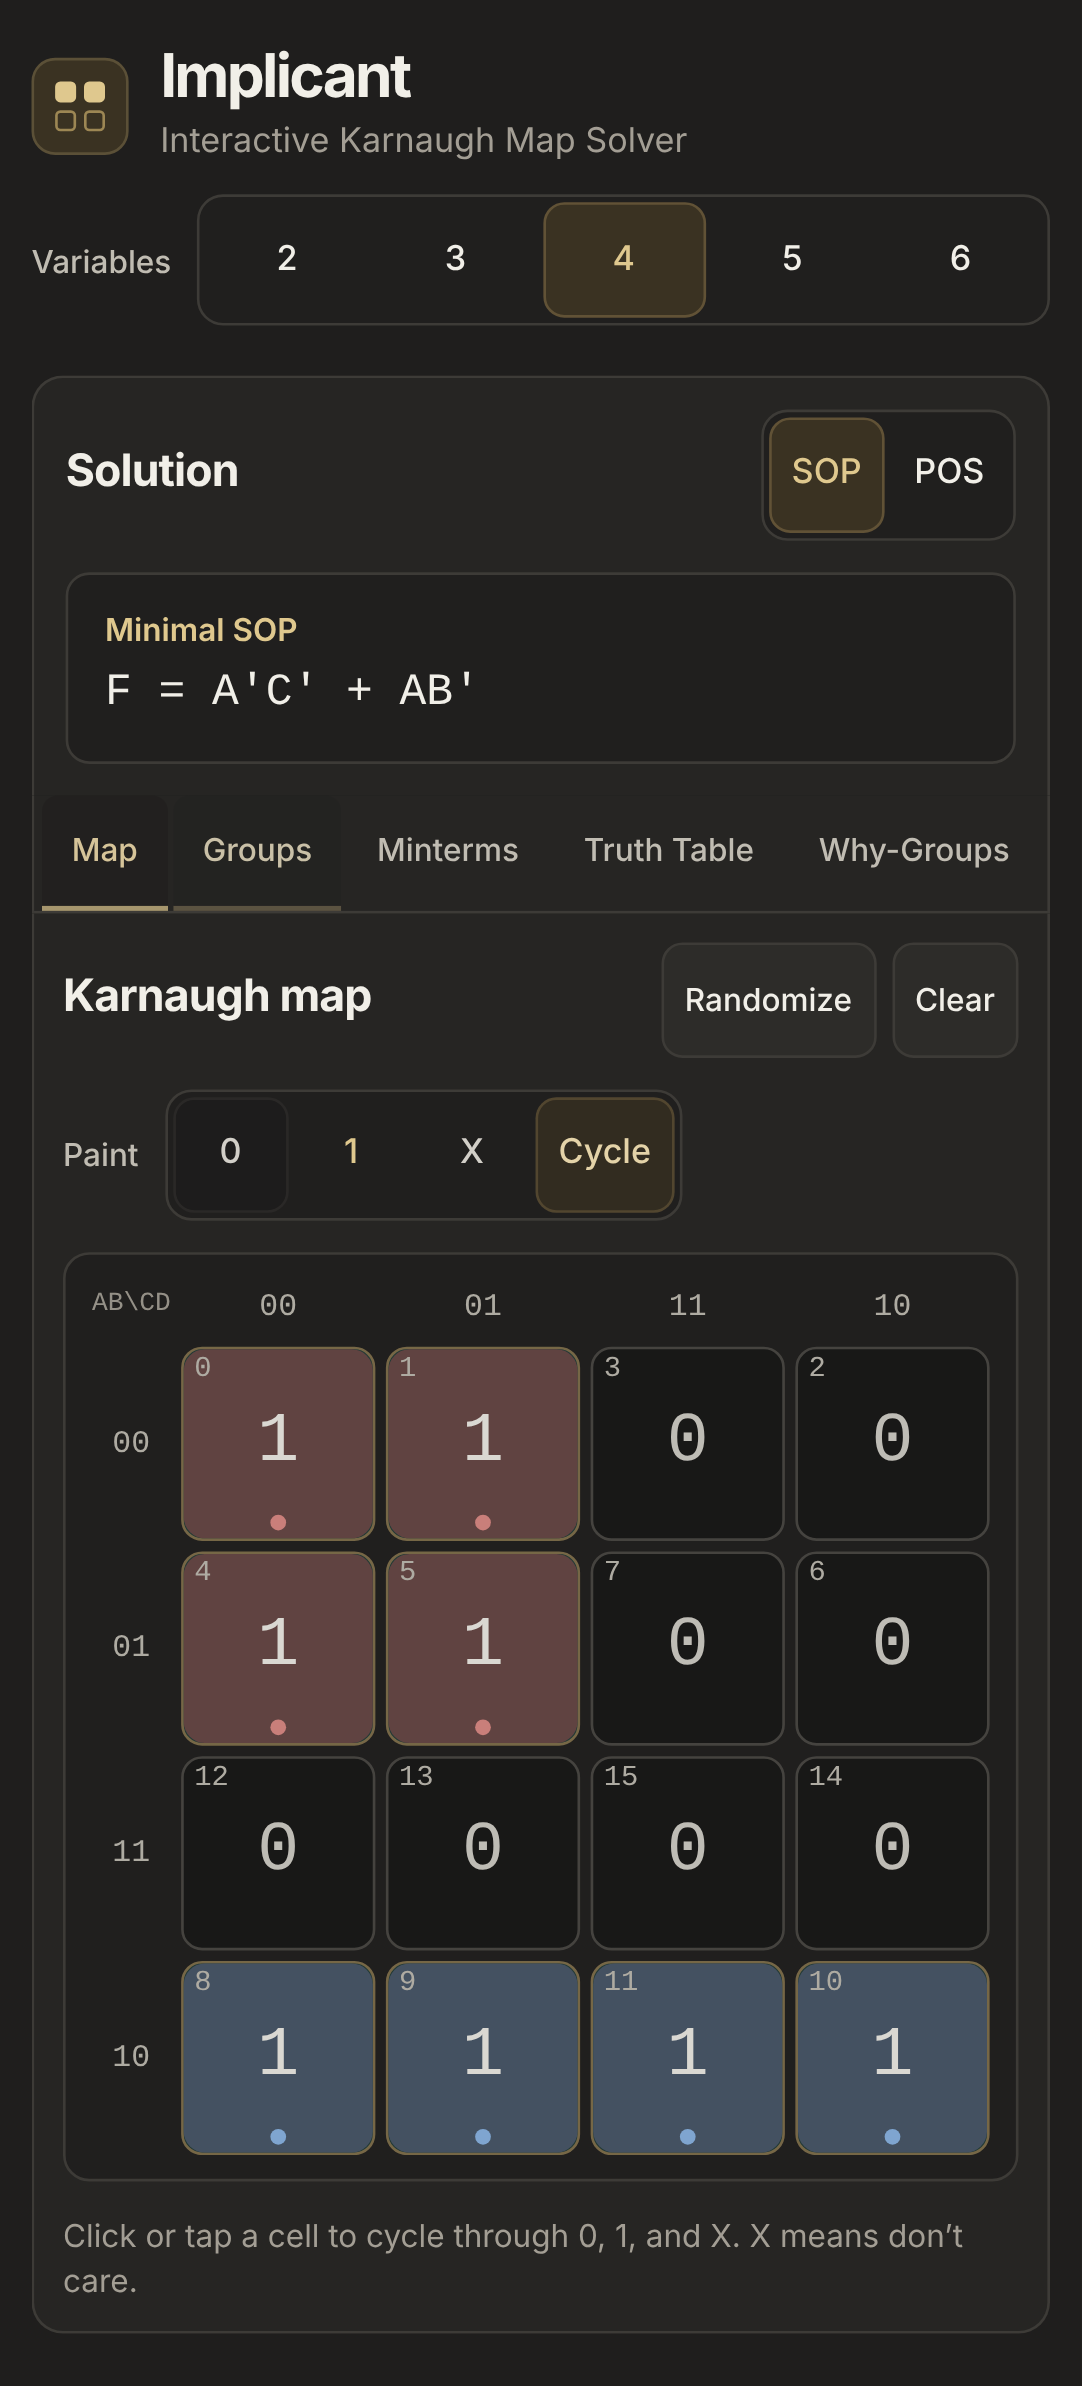
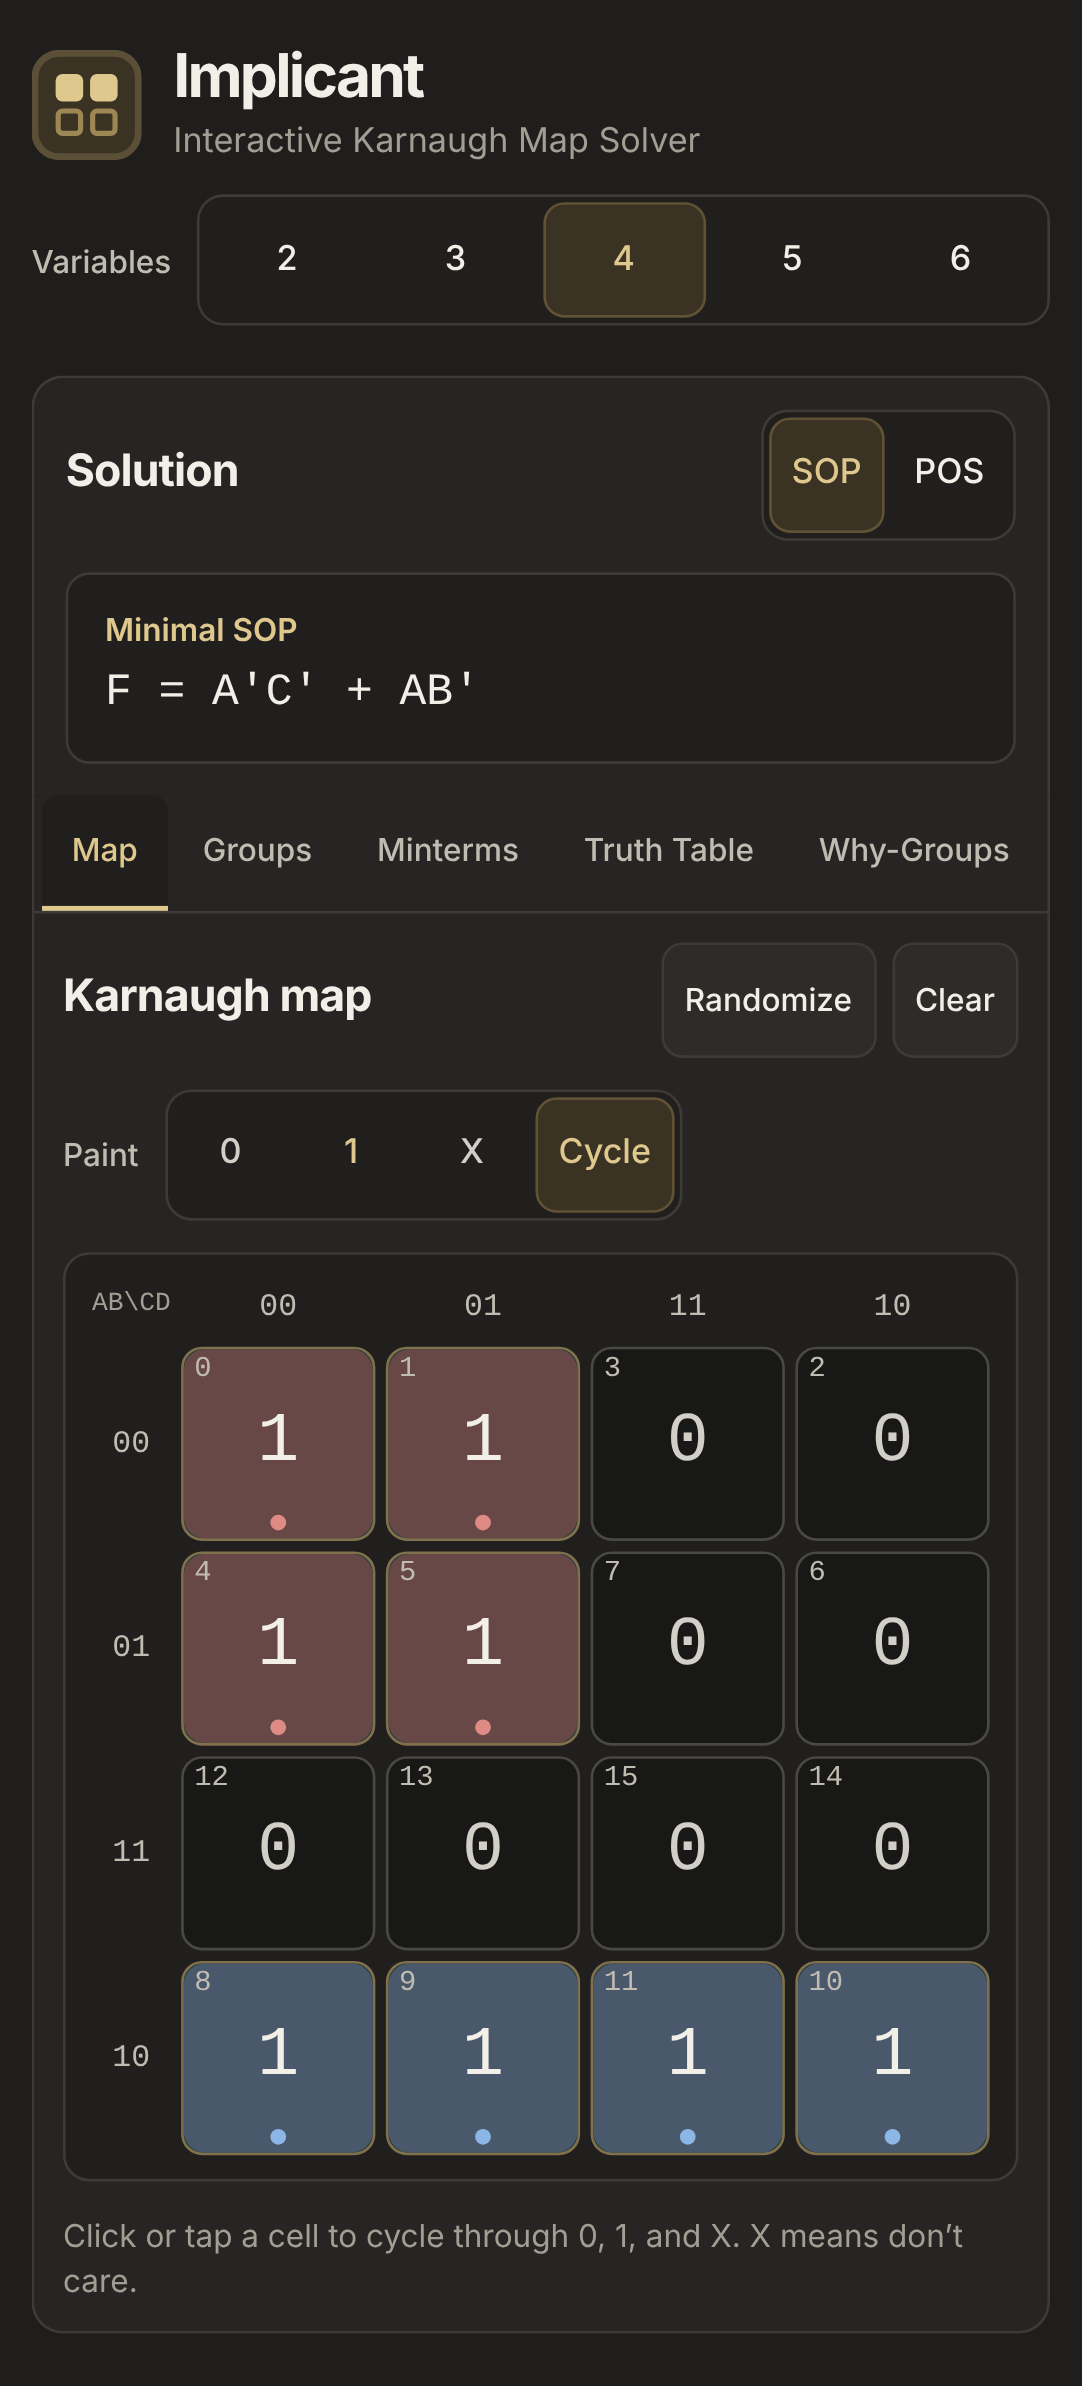
Align the Implicant brand and default to Cycle

Changed region(s): [[0.0305, 0.0, 0.6405, 0.093]]

diff --git a/index.html b/index.html
@@ -6,14 +6,14 @@
     <meta name="theme-color" content="#1f1e1d">
     <title>Implicant | Interactive Karnaugh Map Solver</title>
     <link rel="icon" href="./favicon.svg" type="image/svg+xml">
-    <link rel="stylesheet" href="./styles.css?v=9">
-    <script type="module" src="./ui.js?v=9"></script>
+    <link rel="stylesheet" href="./styles.css?v=10">
+    <script type="module" src="./ui.js?v=10"></script>
   </head>
   <body>
     <main class="app">
       <header class="topbar">
         <div class="brand">
-          <span class="brand-mark" aria-hidden="true"><i></i><i></i><i></i><i></i></span>
+          <img class="brand-mark" src="./favicon.svg" alt="" width="48" height="48">
           <div><h1>Implicant</h1><p class="subtitle">Interactive Karnaugh Map Solver</p></div>
         </div>
         <fieldset class="segmented variable-control">
@@ -36,10 +36,10 @@
             <fieldset class="segmented paint-control">
               <legend>Paint</legend>
               <div class="segment-row">
-                <button type="button" data-paint="0" aria-label="Paint zero" aria-pressed="true">0</button>
+                <button type="button" data-paint="0" aria-label="Paint zero" aria-pressed="false">0</button>
                 <button type="button" data-paint="1" aria-label="Paint one" aria-pressed="false">1</button>
                 <button type="button" data-paint="2" aria-label="Paint don't care" aria-pressed="false">X</button>
-                <button id="cycle-mode" type="button" aria-pressed="false">Cycle</button>
+                <button id="cycle-mode" type="button" aria-pressed="true">Cycle</button>
               </div>
             </fieldset>
           </div>

diff --git a/tests/browser/workspace.spec.js b/tests/browser/workspace.spec.js
@@ -33,11 +33,11 @@ test('map and truth table edit the same output and restore it from the URL', asy
   await expect(page.getByRole('button', { name: 'POS', exact: true })).toHaveAttribute('aria-pressed', 'true');
 });
 
-test('Cycle advances once per activation and selecting a value exits Cycle', async ({ page, isMobile }) => {
+test('Cycle is the default and advances once per activation', async ({ page, isMobile }) => {
   await page.goto('/');
   const cycle = page.getByRole('button', { name: 'Cycle', exact: true });
-  if (!isMobile) await cycle.click();
   await expect(cycle).toHaveAttribute('aria-pressed', 'true');
+  await expect(page.locator('.paint-control button[aria-pressed="true"]')).toHaveCount(1);
 
   const cell = mapCell(page, 2);
   for (const value of ['1', '2', '0']) {

diff --git a/styles.css b/styles.css
@@ -70,17 +70,11 @@ button:active { background-color: var(--control); }
 .topbar { justify-content: space-between; gap: 16px; }
 .brand { gap: 12px; }
 .brand-mark {
-  display: grid;
+  display: block;
   flex: 0 0 auto;
-  grid-template-columns: repeat(2, 8px);
-  gap: 3px;
-  padding: 8px;
-  border: 1px solid #5b5037;
-  border-radius: 9px;
-  background: var(--accent-bg);
+  width: clamp(42px, 4vw, 48px);
+  height: auto;
 }
-.brand-mark i { height: 8px; border: 1px solid #9d8754; border-radius: 2px; }
-.brand-mark i:nth-child(-n+2) { background: var(--accent); border-color: var(--accent); }
 h1 { font-size: clamp(23px, 2.25vw, 30px); font-weight: 650; letter-spacing: -.045em; line-height: 1.15; }
 .subtitle { margin-top: 3px; color: var(--muted); font-size: 13px; }
 

diff --git a/ui.js b/ui.js
@@ -5,6 +5,7 @@ let nVars = 4;
 let values = [...initialValues];
 let selectedGroup = -1;
 let selectedPaint = 0;
+let cycleMode = true;
 let paintingPointer = null;
 let pendingActivation = null;
 let form = 'SOP';
@@ -15,7 +16,6 @@ let mapCells = [];
 
 const narrowLayout = window.matchMedia('(max-width: 879px)');
 const reducedMotion = window.matchMedia('(prefers-reduced-motion: reduce)');
-let cycleMode = window.matchMedia('(any-pointer: coarse)').matches;
 const tintAnimations = new WeakMap();
 const stageColor = getComputedStyle(document.documentElement).getPropertyValue('--stage').trim();
 const viewButtons = document.querySelectorAll('[data-view]');

diff --git a/docs/GUIDE.md b/docs/GUIDE.md
@@ -14,7 +14,7 @@ Five variables add two layers. Six variables add four. Two cells in neighboring 
 | --- | --- |
 | **Variables** | Choose two through six variables. Changing the count starts a cleared map. |
 | **0**, **1**, **X** | Set the output to a fixed value. Click or tap a cell. With a mouse, drag to paint multiple cells. |
-| **Cycle** | Step through `0 → 1 → X → 0` with each click, tap, or keyboard activation. |
+| **Cycle** | The default editing mode. Step through `0 → 1 → X → 0` with each click, tap, or keyboard activation. |
 | **Randomize** / **Clear** | Fill each cell independently with an equally likely value, or set every cell to `0`. |
 | **Truth Table** | Select a value and click or tap an output in the `F out` column. The matching map cell updates. |
 

diff --git a/README.md b/README.md
@@ -1,6 +1,4 @@
-<h1 align="center"><img src="favicon.svg" alt="Implicant" width="96" height="96"></h1>
-
-<p align="center"><strong>Interactive Karnaugh Map Solver</strong></p>
+<h1 align="center"><img src="docs/implicant-logo.svg" alt="Implicant | Interactive Karnaugh Map Solver" width="510"></h1>
 
 <p align="center">
   <a href="https://github.com/DanielMellen-University/Implicant/actions/workflows/ci.yml"><img alt="Tests" src="https://github.com/DanielMellen-University/Implicant/actions/workflows/ci.yml/badge.svg?branch=main"></a>
